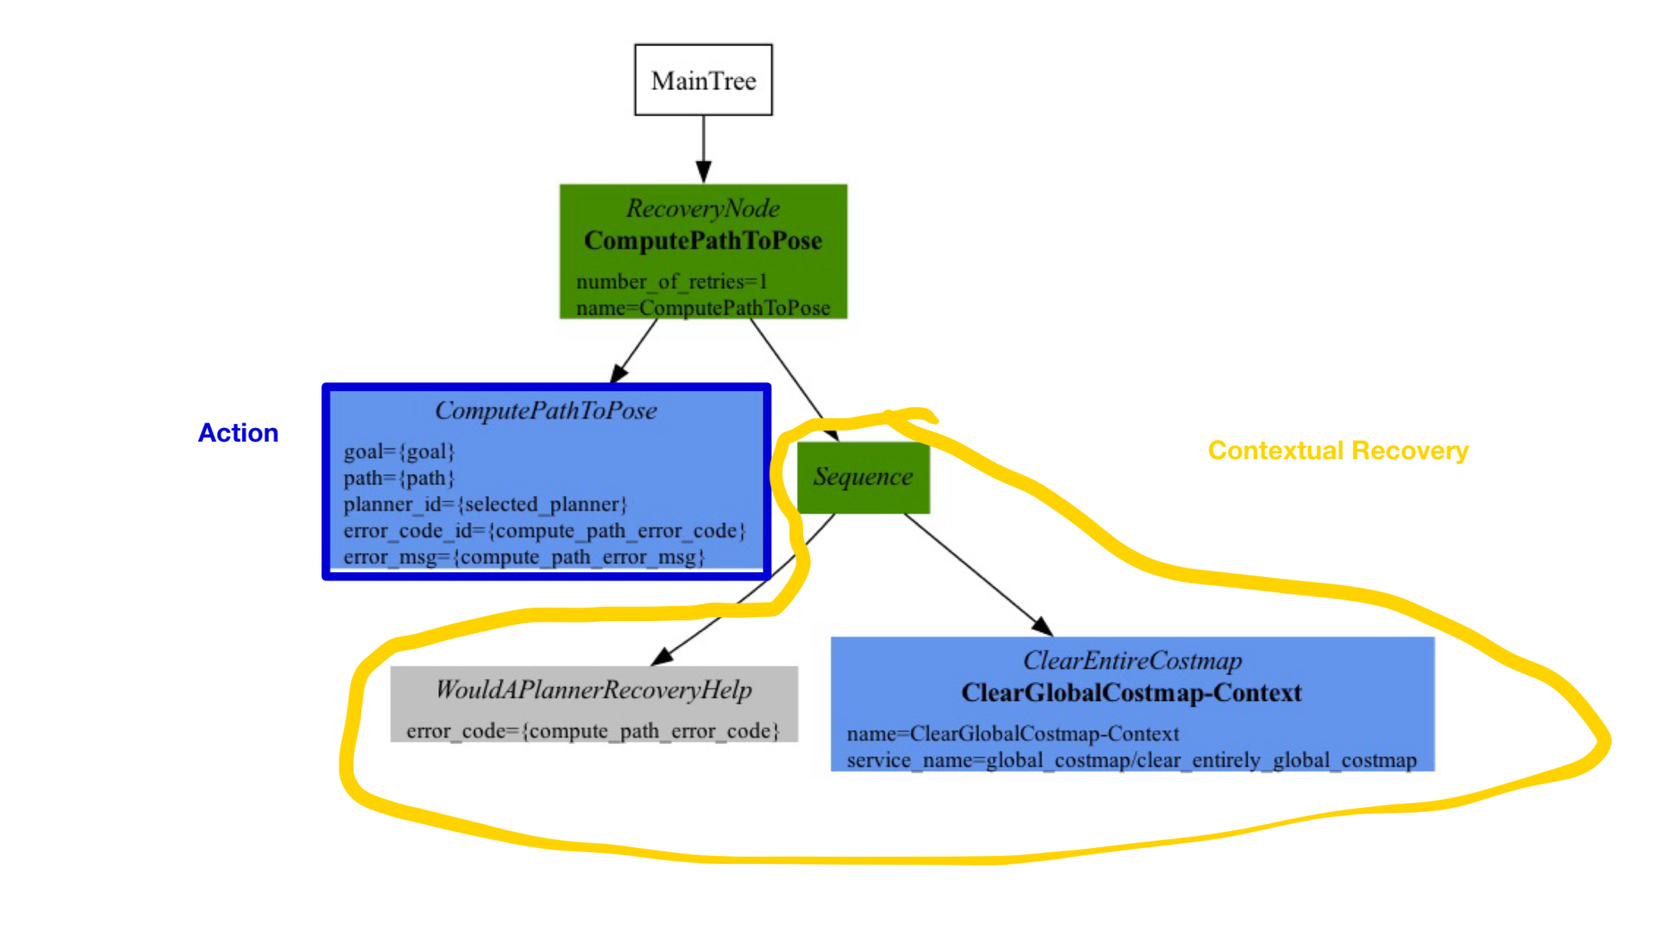
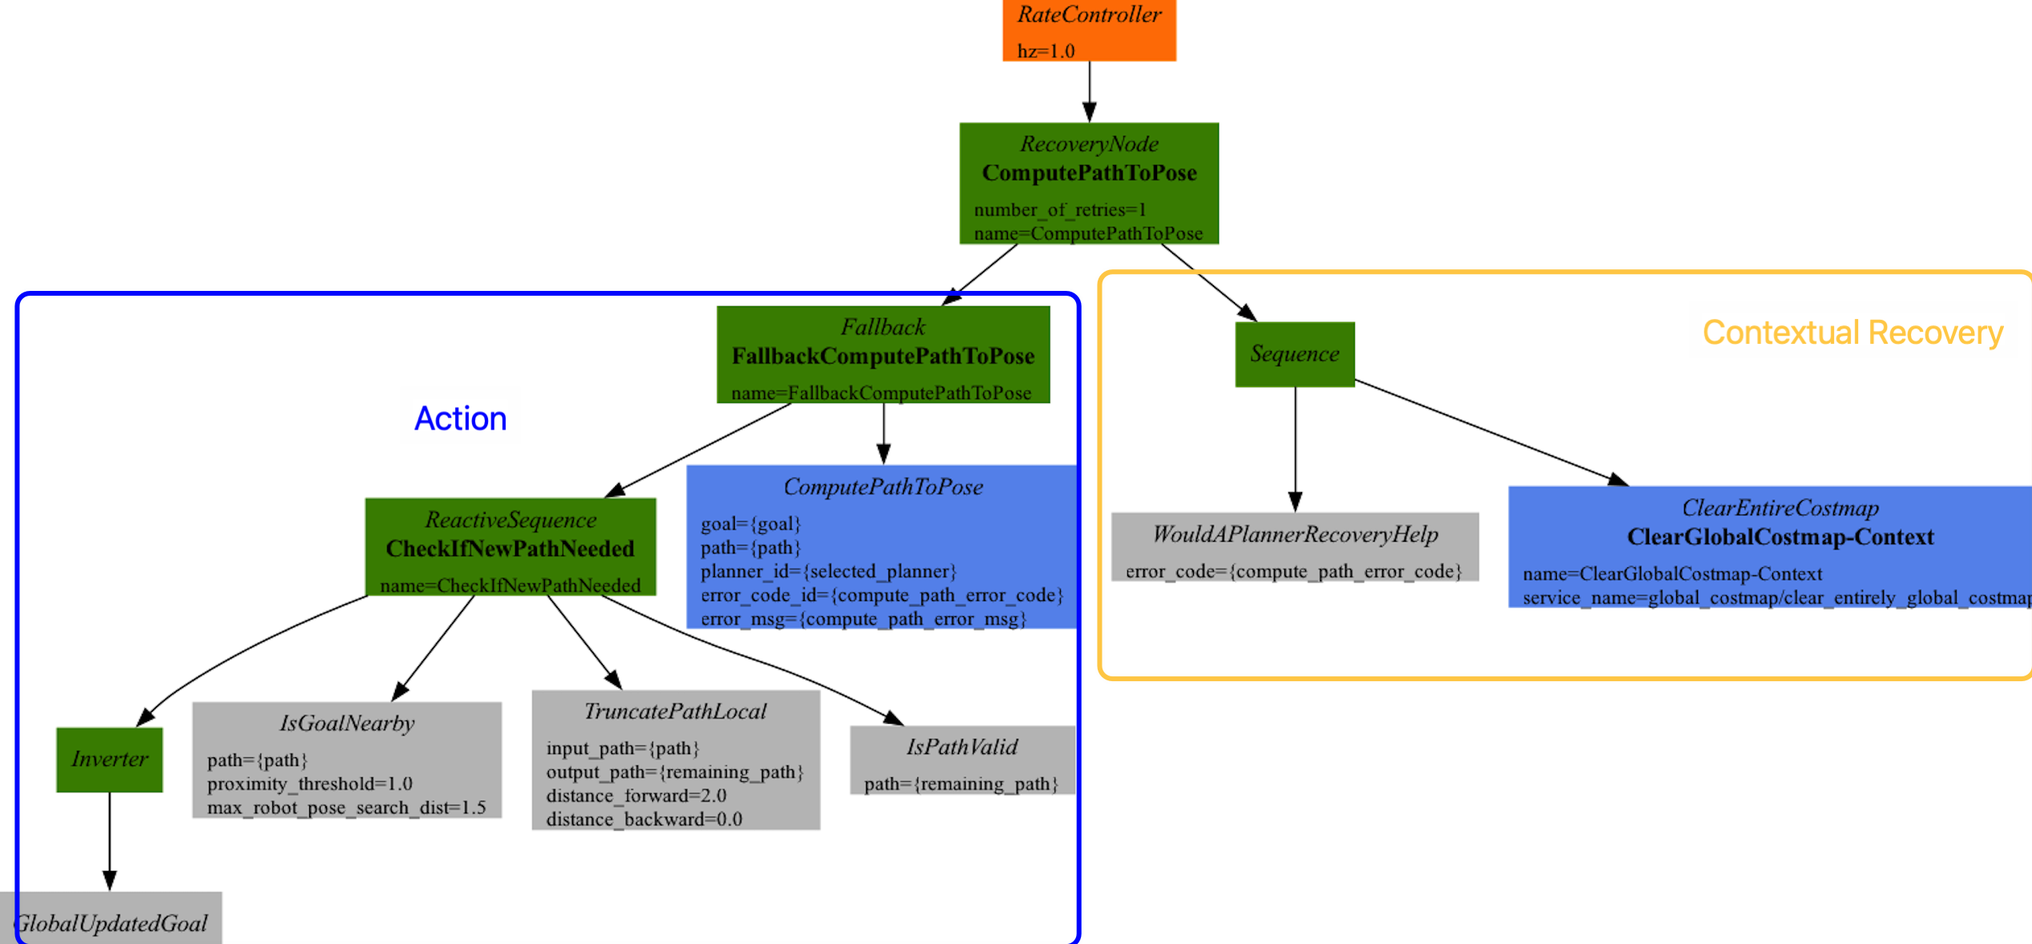
Stop replanning when near the goal if path is valid

diff --git a/behavior_trees/overview/detailed_behavior_tree_walkthrough.rst b/behavior_trees/overview/detailed_behavior_tree_walkthrough.rst
@@ -47,15 +47,28 @@ BTs are primarily defined in XML. The tree shown above is represented in XML as 
 
 .. code-block:: xml
 
-    <root BTCPP_format="4" main_tree_to_execute="MainTree">
-        <BehaviorTree ID="MainTree">
+    <root BTCPP_format="4" main_tree_to_execute="NavigateToPoseWReplanningAndRecovery">
+        <BehaviorTree ID="NavigateToPoseWReplanningAndRecovery">
             <RecoveryNode number_of_retries="6" name="NavigateRecovery">
                 <PipelineSequence name="NavigateWithReplanning">
+                    <ProgressCheckerSelector selected_progress_checker="{selected_progress_checker}" default_progress_checker="progress_checker" topic_name="progress_checker_selector"/>
+                    <GoalCheckerSelector selected_goal_checker="{selected_goal_checker}" default_goal_checker="general_goal_checker" topic_name="goal_checker_selector"/>
+                    <PathHandlerSelector selected_path_handler="{selected_path_handler}" default_path_handler="PathHandler" topic_name="path_handler_selector"/>
                     <ControllerSelector selected_controller="{selected_controller}" default_controller="FollowPath" topic_name="controller_selector"/>
                     <PlannerSelector selected_planner="{selected_planner}" default_planner="GridBased" topic_name="planner_selector"/>
                     <RateController hz="1.0">
                         <RecoveryNode number_of_retries="1" name="ComputePathToPose">
-                            <ComputePathToPose goal="{goal}" path="{path}" planner_id="{selected_planner}" error_code_id="{compute_path_error_code}" error_msg="{compute_path_error_msg}"/>
+                            <Fallback name="FallbackComputePathToPose">
+                                <ReactiveSequence name="CheckIfNewPathNeeded">
+                                    <Inverter>
+                                    <GlobalUpdatedGoal/>
+                                    </Inverter>
+                                    <IsGoalNearby path="{path}" proximity_threshold="1.0" max_robot_pose_search_dist="1.5"/>
+                                    <TruncatePathLocal input_path="{path}" output_path="{remaining_path}" distance_forward="2.0" distance_backward="0.0" />
+                                    <IsPathValid path="{remaining_path}"/>
+                                </ReactiveSequence>
+                                <ComputePathToPose goal="{goal}" path="{path}" planner_id="{selected_planner}" error_code_id="{compute_path_error_code}" error_msg="{compute_path_error_msg}"/>
+                            </Fallback>
                             <Sequence>
                                 <WouldAPlannerRecoveryHelp error_code="{compute_path_error_code}"/>
                                 <ClearEntireCostmap name="ClearGlobalCostmap-Context" service_name="global_costmap/clear_entirely_global_costmap"/>
@@ -63,7 +76,7 @@ BTs are primarily defined in XML. The tree shown above is represented in XML as 
                         </RecoveryNode>
                     </RateController>
                     <RecoveryNode number_of_retries="1" name="FollowPath">
-                        <FollowPath path="{path}" controller_id="{selected_controller}" error_code_id="{follow_path_error_code}" error_msg="{follow_path_error_msg}"/>
+                        <FollowPath path="{path}" controller_id="{selected_controller}" error_code_id="{follow_path_error_code}" error_msg="{follow_path_error_msg}" tracking_feedback="{tracking_feedback}"/>
                         <Sequence>
                             <WouldAControllerRecoveryHelp error_code="{follow_path_error_code}"/>
                             <ClearEntireCostmap name="ClearLocalCostmap-Context" service_name="local_costmap/clear_entirely_local_costmap"/>
@@ -106,6 +119,8 @@ This can be represented in the following way:
 
 The ``Navigation`` subtree mainly involves actual navigation behavior:
 
+- selecting planners / controllers / goal checkers / path handlers / progress checkers plugins
+
 - calculating a path
 
 - following a path
@@ -143,23 +158,36 @@ The XML of this subtree is as follows:
 .. code-block:: xml
 
     <PipelineSequence name="NavigateWithReplanning">
+        <ProgressCheckerSelector selected_progress_checker="{selected_progress_checker}" default_progress_checker="progress_checker" topic_name="progress_checker_selector"/>
+        <GoalCheckerSelector selected_goal_checker="{selected_goal_checker}" default_goal_checker="general_goal_checker" topic_name="goal_checker_selector"/>
+        <PathHandlerSelector selected_path_handler="{selected_path_handler}" default_path_handler="PathHandler" topic_name="path_handler_selector"/>
         <ControllerSelector selected_controller="{selected_controller}" default_controller="FollowPath" topic_name="controller_selector"/>
         <PlannerSelector selected_planner="{selected_planner}" default_planner="GridBased" topic_name="planner_selector"/>
         <RateController hz="1.0">
-            <RecoveryNode number_of_retries="1" name="ComputePathToPose">
-                <ComputePathToPose goal="{goal}" path="{path}" planner_id="{selected_planner}" error_code_id="{compute_path_error_code}" error_msg="{compute_path_error_msg}"/>
-                <Sequence>
-                    <WouldAPlannerRecoveryHelp error_code="{compute_path_error_code}"/>
-                    <ClearEntireCostmap name="ClearGlobalCostmap-Context" service_name="global_costmap/clear_entirely_global_costmap"/>
-                </Sequence>
-            </RecoveryNode>
+          <RecoveryNode number_of_retries="1" name="ComputePathToPose">
+            <Fallback name="FallbackComputePathToPose">
+              <ReactiveSequence name="CheckIfNewPathNeeded">
+                <Inverter>
+                  <GlobalUpdatedGoal/>
+                </Inverter>
+                <IsGoalNearby path="{path}" proximity_threshold="1.0" max_robot_pose_search_dist="1.5"/>
+                <TruncatePathLocal input_path="{path}" output_path="{remaining_path}" distance_forward="2.0" distance_backward="0.0" />
+                <IsPathValid path="{remaining_path}"/>
+              </ReactiveSequence>
+              <ComputePathToPose goal="{goal}" path="{path}" planner_id="{selected_planner}" error_code_id="{compute_path_error_code}" error_msg="{compute_path_error_msg}"/>
+            </Fallback>
+            <Sequence>
+              <WouldAPlannerRecoveryHelp error_code="{compute_path_error_code}"/>
+              <ClearEntireCostmap name="ClearGlobalCostmap-Context" service_name="global_costmap/clear_entirely_global_costmap"/>
+            </Sequence>
+          </RecoveryNode>
         </RateController>
         <RecoveryNode number_of_retries="1" name="FollowPath">
-            <FollowPath path="{path}" controller_id="{selected_controller}" error_code_id="{follow_path_error_code}" error_msg="{follow_path_error_msg}"/>
-            <Sequence>
-                <WouldAControllerRecoveryHelp error_code="{follow_path_error_code}"/>
-                <ClearEntireCostmap name="ClearLocalCostmap-Context" service_name="local_costmap/clear_entirely_local_costmap"/>
-            </Sequence>
+          <FollowPath path="{path}" controller_id="{selected_controller}" error_code_id="{follow_path_error_code}" error_msg="{follow_path_error_msg}" tracking_feedback="{tracking_feedback}"/>
+          <Sequence>
+            <WouldAControllerRecoveryHelp error_code="{follow_path_error_code}"/>
+            <ClearEntireCostmap name="ClearLocalCostmap-Context" service_name="local_costmap/clear_entirely_local_costmap"/>
+          </Sequence>
         </RecoveryNode>
     </PipelineSequence>
 
@@ -203,6 +231,10 @@ The only differences in the BT subtree of ``ComputePathToPose`` and ``FollowPath
     - The ``ComputePathToPose`` subtree centers around the ``ComputePathToPose`` action.
     - The ``FollowPath`` subtree centers around the ``FollowPath`` action.
 
+- The use of conditional flow control (``Fallback``):
+    - The ``ComputePathToPose`` subtree incorporates logic to handle the robot's behavior as it nears the goal. When using feasible planners, re-planning within a small radius (e.g., < 1.0m) can be detrimental due to state estimation drift or path-tracking errors, often resulting in unnecessary "looping" behaviors.
+      To prevent this, the subtree uses a ``ReactiveSequence`` with the ``IsGoalNearby`` node. If the robot is within a specified proximity threshold and the current path remains valid (i.e., no new obstacles), the subtree will skip the re-planning request. This allows the robot to smoothly transition into its final approach using its current path without unnecessary re-planning.
+    - The ``FollowPath`` subtree, by contrast, does not typically use this conditional gating. Once a path is available, the controller is invoked directly to produce velocity commands.
 - The ``RateController`` that decorates the ``ComputePathToPose`` subtree
     The ``RateController`` decorates the ``ComputePathToPose`` subtree to keep planning at the specified frequency. The default frequency for this BT is 1 hz.
     This is done to prevent the BT from flooding the planning server with too many useless requests at the tree update rate (100Hz). Consider changing this frequency to something higher or lower depending on the application and the computational cost of
@@ -212,7 +244,7 @@ The only differences in the BT subtree of ``ComputePathToPose`` and ``FollowPath
     - The ``ComputePathToPose`` subtree clears the global costmap. The global costmap is the relevant costmap in the context of the planner
     - The ``FollowPath`` subtree clears the local costmap. The local costmap is the relevant costmap in the context of the controller
 
-This subtree also utilizes the ``PlannerSelector`` and ``ControllerSelector`` nodes. These nodes ffer flexibility for applications that need to adjust navigation behavior on the fly.
+This subtree also utilizes the ``PlannerSelector``, ``ControllerSelector``, ``GoalCheckerSelector``, ``ProgressCheckerSelector``, and ``PathHandlerSelector`` nodes. These nodes offer flexibility for applications that need to adjust navigation behavior on the fly.
 
 Recovery Subtree
 ================

diff --git a/behavior_trees/trees/nav_through_poses_recovery.rst b/behavior_trees/trees/nav_through_poses_recovery.rst
@@ -13,7 +13,7 @@ By convention we name these by the style of algorithms that they are (e.g. not `
 In this behavior tree, we attempt to retry the entire navigation task 6 times before returning to the caller that the task has failed.
 This allows the navigation system ample opportunity to try to recovery from failure conditions or wait for transient issues to pass, such as crowding from people or a temporary sensor failure.
 
-In nominal execution, this will replan the path at every 3 seconds and pass that path onto the controller, similar to the behavior tree in :ref:`behavior_trees`.
+In nominal execution, this will replan the path at every 3 seconds if not close enough to goal and pass that path onto the controller, similar to the behavior tree in :ref:`behavior_trees`.
 The planner though is now ``ComputePathThroughPoses`` taking a vector, ``goals``, rather than a single pose ``goal`` to plan to.
 The ``RemovePassedGoals`` node is used to cull out ``goals`` that the robot has passed on its path.
 In this case, it is set to remove a pose from the poses when the robot is within ``0.5`` of the goal and it is the next goal in the list.
@@ -38,21 +38,31 @@ While this behavior tree does not make use of it, the ``PlannerSelector``, ``Con
 
 .. code-block:: xml
 
-  <root BTCPP_format="4" main_tree_to_execute="MainTree">
-    <BehaviorTree ID="MainTree">
+  <root BTCPP_format="4" main_tree_to_execute="NavigateThroughPosesWReplanningAndRecovery">
+    <BehaviorTree ID="NavigateThroughPosesWReplanningAndRecovery">
       <RecoveryNode number_of_retries="6" name="NavigateRecovery">
         <PipelineSequence name="NavigateWithReplanning">
           <ProgressCheckerSelector selected_progress_checker="{selected_progress_checker}" default_progress_checker="progress_checker" topic_name="progress_checker_selector"/>
           <GoalCheckerSelector selected_goal_checker="{selected_goal_checker}" default_goal_checker="general_goal_checker" topic_name="goal_checker_selector"/>
-          <PathHandlerSelector selected_path_handler="{selected_path_handler}" default_path_handler="PathHandler" topic_name="path_handler_selector" />
+          <PathHandlerSelector selected_path_handler="{selected_path_handler}" default_path_handler="PathHandler" topic_name="path_handler_selector"/>
           <ControllerSelector selected_controller="{selected_controller}" default_controller="FollowPath" topic_name="controller_selector"/>
           <PlannerSelector selected_planner="{selected_planner}" default_planner="GridBased" topic_name="planner_selector"/>
           <RateController hz="0.333">
             <RecoveryNode number_of_retries="1" name="ComputePathThroughPoses">
-              <ReactiveSequence>
-                <RemovePassedGoals input_goals="{goals}" output_goals="{goals}" radius="0.7" input_waypoint_statuses="{waypoint_statuses}" output_waypoint_statuses="{waypoint_statuses}"/>
-                <ComputePathThroughPoses goals="{goals}" path="{path}" planner_id="{selected_planner}" error_code_id="{compute_path_error_code}" error_msg="{compute_path_error_msg}"/>
-              </ReactiveSequence>
+              <Fallback name="FallbackComputePathToPose">
+                <ReactiveSequence name="CheckIfNewPathNeeded">
+                  <Inverter>
+                    <GlobalUpdatedGoal/>
+                  </Inverter>
+                  <IsGoalNearby path="{path}" proximity_threshold="1.0" max_robot_pose_search_dist="1.5"/>
+                  <TruncatePathLocal input_path="{path}" output_path="{remaining_path}" distance_forward="2.0" distance_backward="0.0" />
+                  <IsPathValid path="{remaining_path}"/>
+                </ReactiveSequence>
+                <ReactiveSequence>
+                  <RemovePassedGoals input_goals="{goals}" output_goals="{goals}" radius="0.7" input_waypoint_statuses="{waypoint_statuses}" output_waypoint_statuses="{waypoint_statuses}"/>
+                  <ComputePathThroughPoses goals="{goals}" path="{path}" planner_id="{selected_planner}" error_code_id="{compute_path_error_code}" error_msg="{compute_path_error_msg}"/>
+                </ReactiveSequence>
+              </Fallback>
               <Sequence>
                 <WouldAPlannerRecoveryHelp error_code="{compute_path_error_code}"/>
                 <ClearEntireCostmap name="ClearGlobalCostmap-Context" service_name="global_costmap/clear_entirely_global_costmap"/>
@@ -60,7 +70,7 @@ While this behavior tree does not make use of it, the ``PlannerSelector``, ``Con
             </RecoveryNode>
           </RateController>
           <RecoveryNode number_of_retries="1" name="FollowPath">
-            <FollowPath path="{path}" controller_id="{selected_controller}" error_code_id="{follow_path_error_code}" error_msg="{follow_path_error_msg}" goal_checker_id="{selected_goal_checker}" progress_checker_id="{selected_progress_checker}" path_handler_id="{selected_path_handler}"/>
+            <FollowPath path="{path}" controller_id="{selected_controller}" error_code_id="{follow_path_error_code}" error_msg="{follow_path_error_msg}" goal_checker_id="{selected_goal_checker}" progress_checker_id="{selected_progress_checker}" path_handler_id="{selected_path_handler}" tracking_feedback="{tracking_feedback}"/>
             <Sequence>
               <WouldAControllerRecoveryHelp error_code="{follow_path_error_code}"/>
               <ClearEntireCostmap name="ClearLocalCostmap-Context" service_name="local_costmap/clear_entirely_local_costmap"/>

diff --git a/behavior_trees/trees/nav_to_pose_with_consistent_replanning_and_if_path_becomes_invalid.rst b/behavior_trees/trees/nav_to_pose_with_consistent_replanning_and_if_path_becomes_invalid.rst
@@ -30,32 +30,37 @@ While this behavior tree does not make use of it, the ``PlannerSelector``, ``Con
 
 .. code-block:: xml
 
-  <root main_tree_to_execute="MainTree">
-    <BehaviorTree ID="MainTree">
+  <root BTCPP_format="4" main_tree_to_execute="NavToPoseWithConsistentReplanningAndIfPathBecomesInvalid">
+    <BehaviorTree ID="NavToPoseWithConsistentReplanningAndIfPathBecomesInvalid">
       <RecoveryNode number_of_retries="6" name="NavigateRecovery">
-        <PipelineSequence>
+        <PipelineSequence name="NavigateWithReplanning">
           <ControllerSelector selected_controller="{selected_controller}" default_controller="FollowPath" topic_name="controller_selector"/>
           <PlannerSelector selected_planner="{selected_planner}" default_planner="GridBased" topic_name="planner_selector"/>
-          <RateController hz="1.0" name="RateControllerComputePathToPose">
-            <RecoveryNode number_of_retries="1" name="RecoveryComputePathToPose">
-              <Fallback name="FallbackComputePathToPose">
-                <ReactiveSequence name="CheckIfNewPathNeeded">
+          <RateController hz="2.0">
+            <RecoveryNode number_of_retries="1" name="ComputePathToPose">
+              <Fallback>
+                <ReactiveSequence>
+                  <Inverter>
+                    <PathExpiringTimer seconds="10" path="{path}"/>
+                  </Inverter>
                   <Inverter>
                     <GlobalUpdatedGoal/>
                   </Inverter>
-                  <IsPathValid path="{path}"/>
+                  <IsGoalNearby path="{path}" proximity_threshold="1.0" max_robot_pose_search_dist="1.5"/>
+                  <TruncatePathLocal input_path="{path}" output_path="{remaining_path}" distance_forward="2.0" distance_backward="0.0" />
+                  <IsPathValid path="{remaining_path}"/>
                 </ReactiveSequence>
                 <ComputePathToPose goal="{goal}" path="{path}" planner_id="{selected_planner}" error_code_id="{compute_path_error_code}" error_msg="{compute_path_error_msg}"/>
               </Fallback>
               <ClearEntireCostmap name="ClearGlobalCostmap-Context" service_name="global_costmap/clear_entirely_global_costmap"/>
             </RecoveryNode>
           </RateController>
-          <RecoveryNode number_of_retries="1" name="RecoveryFollowPath">
-            <FollowPath path="{path}" controller_id="{selected_controller}" error_code_id="{follow_path_error_code}" error_msg="{follow_path_error_msg}"/>
+          <RecoveryNode number_of_retries="1" name="FollowPath">
+            <FollowPath path="{path}" controller_id="{selected_controller}" error_code_id="{follow_path_error_code}" error_msg="{follow_path_error_msg}" tracking_feedback="{tracking_feedback}"/>
             <ClearEntireCostmap name="ClearLocalCostmap-Context" service_name="local_costmap/clear_entirely_local_costmap"/>
           </RecoveryNode>
         </PipelineSequence>
-        <ReactiveFallback name="FallbackRecoveries">
+        <ReactiveFallback name="RecoveryFallback">
           <GoalUpdated/>
           <RoundRobin name="RecoveryActions">
             <Sequence name="ClearingActions">
@@ -63,8 +68,8 @@ While this behavior tree does not make use of it, the ``PlannerSelector``, ``Con
               <ClearEntireCostmap name="ClearGlobalCostmap-Subtree" service_name="global_costmap/clear_entirely_global_costmap"/>
             </Sequence>
             <Spin name="SpinRecovery" spin_dist="1.57" error_code_id="{spin_error_code}" error_msg="{spin_error_msg}"/>
-            <Wait name="WaitRecovery" wait_duration="5.0"/>
-            <BackUp name="BackUpRecovery" backup_dist="0.30" backup_speed="0.05" error_code_id="{backup_error_code}" error_msg="{backup_error_msg}"/>
+            <Wait name="WaitRecovery" wait_duration="5.0" error_code_id="{wait_error_code}" error_msg="{wait_error_msg}"/>
+            <BackUp name="BackUpRecovery" backup_dist="0.30" backup_speed="0.15" error_code_id="{backup_error_code}" error_msg="{backup_error_msg}"/>
           </RoundRobin>
         </ReactiveFallback>
       </RecoveryNode>

diff --git a/behavior_trees/trees/nav_to_pose_recovery.rst b/behavior_trees/trees/nav_to_pose_recovery.rst
@@ -14,7 +14,7 @@ By convention we name these by the style of algorithms that they are (e.g. not `
 In this behavior tree, we attempt to retry the entire navigation task 6 times before returning to the caller that the task has failed.
 This allows the navigation system ample opportunity to try to recovery from failure conditions or wait for transient issues to pass, such as crowding from people or a temporary sensor failure.
 
-In nominal execution, this will replan the path at every second and pass that path onto the controller, similar to the behavior tree in :ref:`behavior_trees`.
+In nominal execution, this will replan the path at every second if not close enough to goal and pass that path onto the controller, similar to the behavior tree in :ref:`behavior_trees`.
 However, this time, if the planner fails, it will trigger contextually aware recovery behaviors in its subtree, clearing the global costmap.
 Additional recovery behaviors can be added here for additional context-specific recoveries, such as trying another algorithm.
 
@@ -45,7 +45,17 @@ While this behavior tree does not make use of it, the ``PlannerSelector``, ``Con
           <PlannerSelector selected_planner="{selected_planner}" default_planner="GridBased" topic_name="planner_selector"/>
           <RateController hz="1.0">
             <RecoveryNode number_of_retries="1" name="ComputePathToPose">
-              <ComputePathToPose goal="{goal}" path="{path}" planner_id="{selected_planner}" error_code_id="{compute_path_error_code}" error_msg="{compute_path_error_msg}"/>
+              <Fallback name="FallbackComputePathToPose">
+                <ReactiveSequence name="CheckIfNewPathNeeded">
+                  <Inverter>
+                    <GlobalUpdatedGoal/>
+                  </Inverter>
+                  <IsGoalNearby path="{path}" proximity_threshold="1.0" max_robot_pose_search_dist="1.5"/>
+                  <TruncatePathLocal input_path="{path}" output_path="{remaining_path}" distance_forward="2.0" distance_backward="0.0" />
+                  <IsPathValid path="{remaining_path}"/>
+                </ReactiveSequence>
+                <ComputePathToPose goal="{goal}" path="{path}" planner_id="{selected_planner}" error_code_id="{compute_path_error_code}" error_msg="{compute_path_error_msg}"/>
+              </Fallback>
               <Sequence>
                 <WouldAPlannerRecoveryHelp error_code="{compute_path_error_code}"/>
                 <ClearEntireCostmap name="ClearGlobalCostmap-Context" service_name="global_costmap/clear_entirely_global_costmap"/>
@@ -53,7 +63,7 @@ While this behavior tree does not make use of it, the ``PlannerSelector``, ``Con
             </RecoveryNode>
           </RateController>
           <RecoveryNode number_of_retries="1" name="FollowPath">
-            <FollowPath path="{path}" controller_id="{selected_controller}" error_code_id="{follow_path_error_code}" error_msg="{follow_path_error_msg}"/>
+            <FollowPath path="{path}" controller_id="{selected_controller}" error_code_id="{follow_path_error_code}" error_msg="{follow_path_error_msg}" tracking_feedback="{tracking_feedback}"/>
             <Sequence>
               <WouldAControllerRecoveryHelp error_code="{follow_path_error_code}"/>
               <ClearEntireCostmap name="ClearLocalCostmap-Context" service_name="local_costmap/clear_entirely_local_costmap"/>
